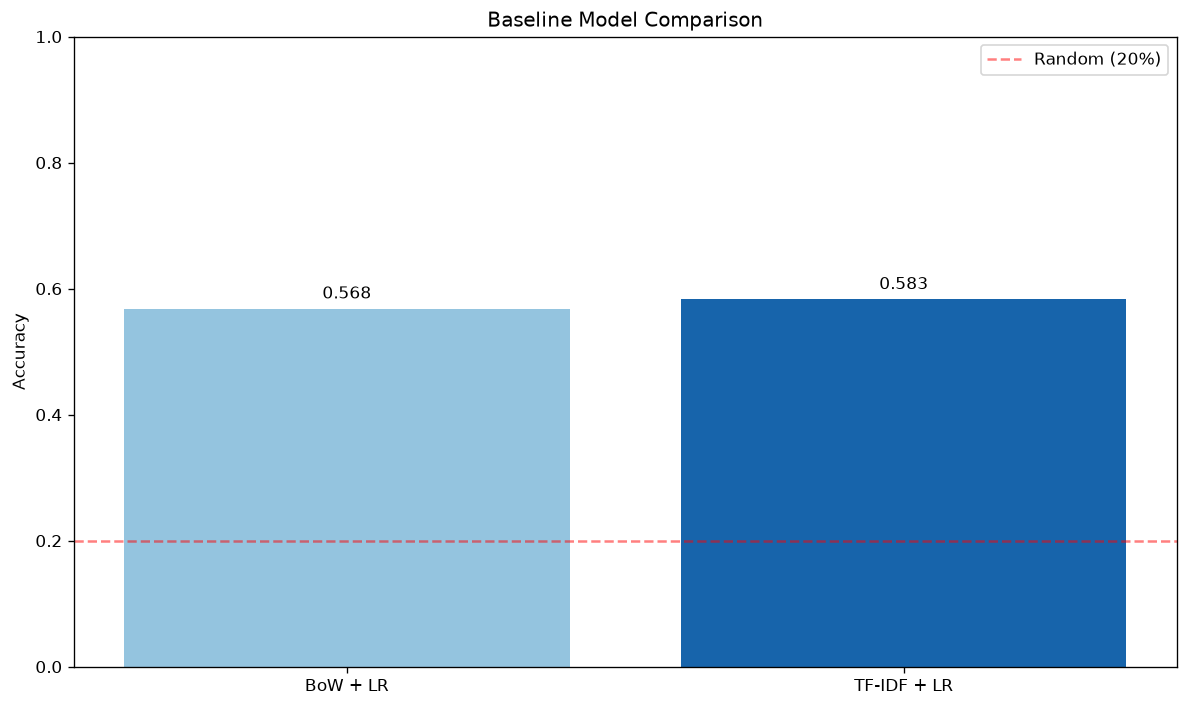
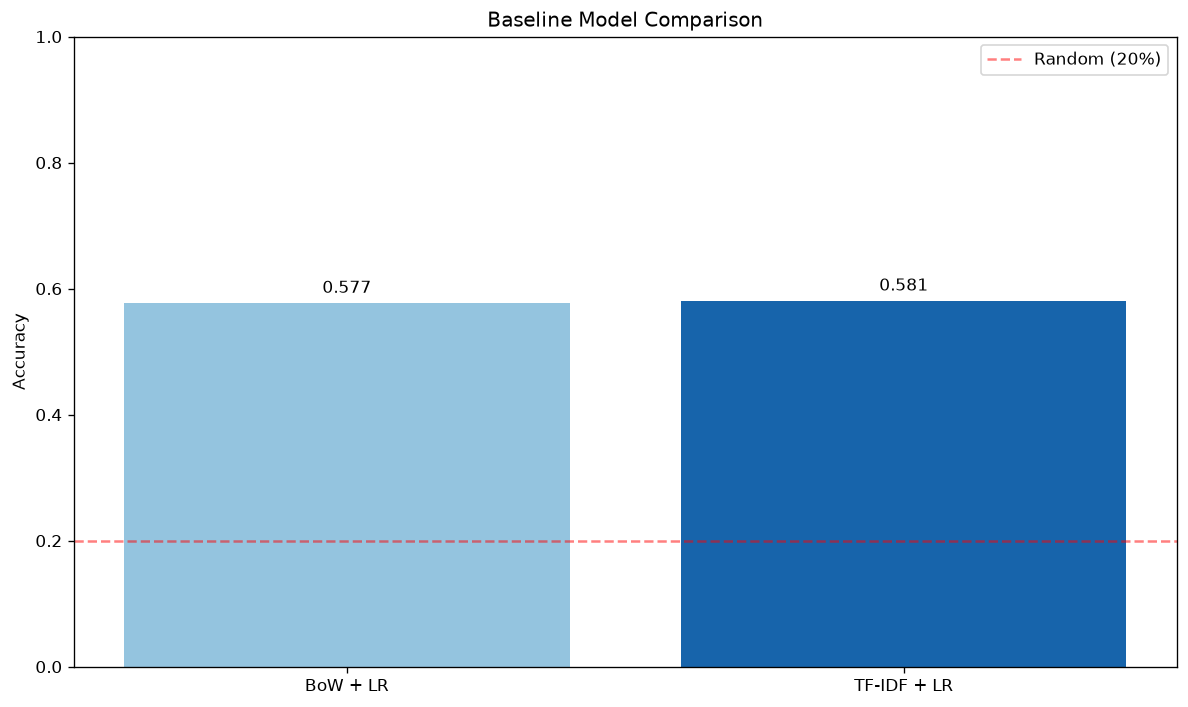
docs(report): compare notebook results with re-implemented experiments

Changed region(s): [[0.0934, 0.3734, 0.4672, 0.4356], [0.7163, 0.3734, 0.8098, 0.4356]]

diff --git a/docs/research-report.md b/docs/research-report.md
@@ -1,135 +1,191 @@
-# Research report: Yelp 5-class review classification, BoW vs TF-IDF + Logistic Regression
+# Research report: Yelp review classification, notebook versus re-implementation
 
-All numbers come from logged runs made on 2026-10-31 at commit `ff66b582532d66a4a6dee29d32b32725573e56f6`. Differences between two logged values are shown as derivations. No external benchmark figures are used. Measurement logs were kept outside the repository (run artifacts, not committed).
+Two kinds of numbers appear below and are always labelled. **Historical** numbers are the recorded outputs of the original notebook (commit `afa2d95`, run in May 2024 on another machine, mostly on GPU). **Re-measured** numbers come from runs made on 2026-10-31 on one CPU machine (Intel Core Ultra 7 258V, 8 cores, 15 GB RAM, WSL2) with this repository's code. Derivations are shown as such. No external benchmark figures are used. Run logs were kept outside the repository and are not committed.
 
 ## Summary
 
-- Task: classify Yelp reviews into 5 star classes (labels 0-4) from `Yelp/yelp_review_full`, using a vectorizer plus Logistic Regression.
-- On the full data (650000 train / 50000 test), TF-IDF reached accuracy 0.5830 and BoW 0.5681 (difference 0.5830 - 0.5681 = 0.0149).
-- Both models place 0.9238 (BoW) and 0.9321 (TF-IDF) of the test reviews within one star of the true label; the errors are mostly between adjacent classes.
-- Accuracy grows with training size for both models (1k to full, see sweep table); TF-IDF was ahead at every size measured.
-- The pipeline does not use `TextPreprocessor`; the actual text handling is done by the sklearn vectorizer (see Setup). Several documentation/configuration mismatches found are listed in [known-issues.md](known-issues.md).
+- The notebook compared classical and deep models on `Yelp/yelp_review_full` (five star classes) and on derived tasks (3 classes, polarity, polarity without neutral), plus DBpedia-14. This repository re-implements all of them behind named experiments.
+- All six classical experiments and the dataset analysis were re-measured at full scale and match the historical values to the printed precision (table below).
+- The 14 deep experiments (char-CNN, BiLSTM + GloVe, DistilBERT, zero-shot DeBERTa) are implemented and smoke-tested only. They were not re-measured at full scale, so their historical values stand alone.
+- Deliberate deviations are listed in [Deviations](#deviations-from-the-notebook); rationale lives in [decisions.md](decisions.md). Notebook inconsistencies are listed under [Notebook inconsistencies](#notebook-inconsistencies).
+- Dependencies changed substantially during the day; see the version table.
 
-## Setup
+## Provenance
 
-**Dataset.** `Yelp/yelp_review_full`, train split 650000 rows, test split 50000 rows. Both splits are balanced: 130000 per class in train, 10000 per class in test. Review length in words (whitespace split): train mean 134.1, median 99, p95 370, max 1052; test mean 134.3, median 99, p95 368, max 1009. No separate validation split: the test split is the only held-out data, and no tuning was done on it.
+- `afa2d95`: the original notebook, written by its author (TensorFlow/Keras, pytorch-ignite, Hugging Face Trainer).
+- A later refactor turned the classical part into the layered package under `src/` (BoW or TF-IDF plus Logistic Regression, five classes only).
+- 2026-10-31 parity work added the notebook's other experiments, one package per commit:
+  - `152145d`: label tasks, experiment registry, `experiments`/`experiment`/`analyze` modes, classical parity.
+  - `1f65b38`: optional `deep` extra (PyTorch), shared training loop, character-level CNN.
+  - `c0c475f`: BiLSTM + GloVe, notebook text cleaning.
+  - `73bb2ac`: DistilBERT fine-tuning, transfer and polarity.
+  - `077e822`: zero-shot DeBERTa experiments.
 
-**Actual preprocessing path.** `TextPreprocessor` is not used by the pipeline. Text goes raw into the sklearn vectorizer, which does:
+## Experiments and how to run them
 
-- lowercase (default sklearn tokenization, default token pattern) and unigrams only;
-- sklearn built-in English `stop_words` (not the NLTK list);
-- `min_df=50`; BoW does not receive `max_df` (sklearn default 1.0, i.e. no upper cut-off); TF-IDF uses `max_df=0.5`.
+`uv run python -m src.main experiments` lists the names; `uv run python -m src.main experiment <name> [sample_size]` runs one and `analyze [sample_size]` prints the dataset statistics. Deep experiments need `uv sync --extra deep` (lazy imports; the error names that command). Names: `lr-bow`, `lr-tfidf`, `lr-bow-3class`, `lr-bow-polarity`, `lr-bow-no-neutral`, `lr-bow-dbpedia`, `cnn-char`, `cnn-char-mixed-case`, `lstm-glove`, `lstm-glove-3class`, `distilbert-finetune`, `distilbert-transfer`, `distilbert-polarity`, `zeroshot-form1-val`, `zeroshot-form2-val`, `zeroshot-form3-val`, `zeroshot-noverb-val`, `zeroshot-test`, `zeroshot-3class`, `zeroshot-binary`.
 
-`expand_contractions` and any punctuation handling in `TextPreprocessor` have no effect on these runs. Vocabulary size is 22027 for both models.
-
-**Classifier.** `LogisticRegression` with lbfgs (sklearn default solver), default `C=1.0`, `max_iter=1000`, `random_state=42`. No hyperparameter tuning was performed.
-
-**Environment.** Python 3.12.15, scikit-learn 1.9.1, numpy 2.5.4, scipy 1.18.1, datasets 5.1.0, nltk 3.10.4, contractions 0.1.73. CPU Intel Core Ultra 7 258V, 8 cores, 15 GB RAM (WSL2).
-
-**Measurement method.**
-
-- Full-data numbers come from an external harness (not committed) that calls `src.main.run_single_model` for `bow` and `tfidf` with `sample_size=None`. It only adds printing of the confusion matrix, label counts, word lengths, top features, within-one-star rate and MAE, and saves the project's own plots (figures below). Metrics themselves come from the project's code. Run once: `/usr/bin/time` total 11:17.33 wall, max RSS 2247724 kB.
-- Sweep numbers (1k, 10k, 100k) come from the CLI: `uv run python -m src.main baseline N`. Those runs print accuracy only.
-- The custom workflow comes from `uv run python -m src.main custom`.
-- A first full CLI `baseline` run was aborted after about 5 minutes (terminated, exit 143); it produced no result and is not reported.
+Zero-shot runs on CPU when no GPU exists (the notebook raised an error without CUDA), and the deep runs are practical on CPU only with small samples.
 
 ## Results
 
-### Full data (650000 train / 50000 test), single run
+Accuracy on the test split unless stated. "Historical" is read from the notebook outputs; "re-measured" is a single full-scale CPU run (650000 train rows unless the task changes the count, seed 42, `max_iter` 100). Status: matched = equal to the historical value at the printed precision.
 
-| Metric | BoW + LR | TF-IDF + LR | TF-IDF - BoW |
+| Experiment | Historical (notebook) | Re-measured today | Status |
 |---|---|---|---|
-| Accuracy | 0.5681 | 0.5830 | 0.0149 |
-| Macro precision | 0.5625 | 0.5792 | 0.0167 |
-| Macro recall | 0.5681 | 0.5830 | 0.0149 |
-| Macro F1 | 0.5646 | 0.5808 | 0.0162 |
-| Within one star | 0.9238 | 0.9321 | 0.0083 |
-| Off by two or more | 0.0762 | 0.0679 | -0.0083 |
-| MAE (stars) | 0.5358 | 0.5108 | -0.0250 |
-| Vocabulary size | 22027 | 22027 | 0 |
-| Wall time (train + predict, s) | 468.0 | 201.5 | -266.5 |
+| `lr-bow` | 0.57704 | 0.5771 | matched |
+| `lr-tfidf` | 0.58068 | 0.5807 | matched |
+| `lr-bow-3class` | 0.75348 | 0.7535 | matched |
+| `lr-bow-polarity` | 0.86034 | 0.8604 (at `c0c475f`) | matched |
+| `lr-bow-no-neutral` | 0.924725 | 0.9247 | matched |
+| `lr-bow-dbpedia` | 0.9765 | 0.9766 | matched |
+| `cnn-char` (lowercase, 70 characters) | 0.6228 | - | not re-measured: smoke-tested only |
+| `cnn-char-mixed-case` (96 characters) | 0.5959 (wrong tokenizer, see below) | - | not re-measured: smoke-tested only |
+| `lstm-glove` | 0.6132 (last-epoch weights; final table says 0.6039) | - | not re-measured: smoke-tested only |
+| `lstm-glove-3class` | 0.79806 | - | not re-measured: smoke-tested only |
+| `distilbert-finetune` | 0.684 (printed to 3 decimals; recall 0.68446) | - | not re-measured: smoke-tested only |
+| `distilbert-transfer` | 0.554 (printed to 3 decimals; recall 0.55398) | - | not re-measured: smoke-tested only |
+| `distilbert-polarity` | 0.91434 (validation 0.91558) | - | not re-measured: smoke-tested only |
+| `zeroshot-form1-val` / `form2-val` / `form3-val` / `noverb-val` (13000 validation rows) | 43.09% / 50.02% / 46.43% / 46.10% (F1) | - | not re-measured: smoke-tested only |
+| `zeroshot-test` (form 2, 50000 rows) | 47.55% | - | not re-measured: smoke-tested only |
+| `zeroshot-3class` | 80.02% | - | not re-measured: smoke-tested only |
+| `zeroshot-binary` (2-star dropped, 40000 rows) | 96.34% | - | not re-measured: smoke-tested only |
 
-Per-class F1 (BoW / TF-IDF): class 0 0.71 / 0.73, class 1 0.49 / 0.51, class 2 0.47 / 0.49, class 3 0.48 / 0.50, class 4 0.67 / 0.68. Per-class recall: class 0 0.74 / 0.75, class 1 0.47 / 0.50, class 2 0.46 / 0.48, class 3 0.47 / 0.49, class 4 0.71 / 0.69.
+Smoke runs of the deep experiments passed on tiny samples; their accuracies say nothing about quality and are not reported. The notebook's own final table lists: LR 0.5770, char-CNN 0.6228, custom LSTM 0.6039, DistilBERT fine-tuned 0.6840, transfer 0.5540, DeBERTa zero-shot 0.4755 (all historical).
 
-### Confusion matrices (rows = true class 0-4, columns = predicted class 0-4)
+### Classical experiments in detail (re-measured)
+
+Macro F1, re-measured against historical where the notebook printed it: `lr-bow` 0.5736 (historical 0.57), `lr-tfidf` 0.5786 (0.58), `lr-bow-3class` 0.7217 (0.72), `lr-bow-polarity` 0.8566, `lr-bow-no-neutral` 0.9247, `lr-bow-dbpedia` 0.9766 (0.98).
+
+Five-class details come from the harness run at `73bb2ac` (same accuracies as the CLI runs; it also computes the extra statistics):
+
+| Metric | BoW + LR | TF-IDF + LR |
+|---|---|---|
+| Accuracy | 0.5771 | 0.5807 |
+| Macro precision / recall / F1 | 0.5716 / 0.5771 / 0.5736 | 0.5770 / 0.5807 / 0.5786 |
+| Per-class F1 (classes 0-4) | 0.72 / 0.51 / 0.48 / 0.48 / 0.68 | 0.72 / 0.52 / 0.49 / 0.49 / 0.68 |
+| Within one star | 0.9266 | 0.9285 |
+| Mean absolute error (stars) | 0.5243 | 0.5193 |
+| Vocabulary size | 22027 | 22027 |
+
+Historical per-class F1 is the same (.72/.51/.48/.48/.68 and .72/.52/.49/.49/.68). The accuracy gap TF-IDF - BoW is 0.5807 - 0.5771 = 0.0036 (re-measured, single split).
+
+Confusion matrices (rows = true class 0-4, columns = predicted class 0-4), re-measured:
 
 BoW:
 
 | true \ pred | 0 | 1 | 2 | 3 | 4 |
 |---|---|---|---|---|---|
-| 0 | 7362 | 1938 | 372 | 132 | 196 |
-| 1 | 2487 | 4726 | 2111 | 449 | 227 |
-| 2 | 521 | 2072 | 4601 | 2181 | 625 |
-| 3 | 146 | 372 | 1915 | 4650 | 2917 |
-| 4 | 171 | 146 | 451 | 2166 | 7066 |
+| 0 | 7427 | 1928 | 332 | 107 | 206 |
+| 1 | 2390 | 4924 | 2036 | 426 | 224 |
+| 2 | 502 | 2080 | 4647 | 2170 | 601 |
+| 3 | 146 | 361 | 1938 | 4698 | 2857 |
+| 4 | 177 | 154 | 435 | 2077 | 7157 |
 
 TF-IDF:
 
 | true \ pred | 0 | 1 | 2 | 3 | 4 |
 |---|---|---|---|---|---|
-| 0 | 7512 | 1941 | 286 | 100 | 161 |
-| 1 | 2356 | 5040 | 2029 | 381 | 194 |
-| 2 | 485 | 2121 | 4753 | 2134 | 507 |
-| 3 | 163 | 354 | 1982 | 4926 | 2575 |
-| 4 | 183 | 150 | 431 | 2318 | 6918 |
+| 0 | 7390 | 2020 | 312 | 106 | 172 |
+| 1 | 2250 | 5061 | 2074 | 410 | 205 |
+| 2 | 517 | 2021 | 4819 | 2107 | 536 |
+| 3 | 179 | 328 | 2017 | 4822 | 2654 |
+| 4 | 222 | 144 | 446 | 2246 | 6942 |
 
 ![BoW confusion matrix](figures/confusion-bow-full.png)
 ![TF-IDF confusion matrix](figures/confusion-tfidf-full.png)
 
-The project's plots are the transpose of the tables above (y axis = predicted, x axis = true), so the first plot row is the first table column.
+The project's plots are the transpose of the tables above (y axis = predicted, x axis = true), so the first plot row is the first table column. The figures were regenerated at `73bb2ac` by the project's own plotting code through an external harness that calls `src.main.run_single_model` for `bow` and `tfidf`.
 
 ![Accuracy comparison](figures/accuracy-comparison-full.png)
 
-### Sample-size sweep (CLI `baseline N`, first N rows of train and of test)
+Observations: errors are mostly between adjacent stars. The largest off-diagonal cells are BoW true 3 predicted 4 (2857), true 1 predicted 0 (2390), true 2 predicted 3 (2170), and TF-IDF true 3 predicted 4 (2654), true 1 predicted 0 (2250), true 4 predicted 3 (2246), ahead of true 2 predicted 3 (2107). The extreme classes score higher F1 than classes 1-3. TF-IDF top features are sentiment words (class 0: worst, horrible, terrible, zero, awful; class 4: delicious, amazing, awesome, excellent, perfect); BoW lists include rare tokens and `n`-prefixed tokens such as `nnever`, `nhowever`, `n3`, which come from literal backslash-n sequences in the text ([known-issues.md](known-issues.md)).
 
-| Sample size | BoW accuracy | TF-IDF accuracy | TF-IDF - BoW | CLI wall time (both models) |
-|---|---|---|---|---|
-| 1000 | 0.3300 | 0.3600 | 0.0300 | 0:09.37 |
-| 10000 | 0.4725 | 0.5050 | 0.0325 | 0:10.01 |
-| 100000 | 0.5286 | 0.5557 | 0.0271 | 3:36.35 |
-| full (650000 / 50000, harness) | 0.5681 | 0.5830 | 0.0149 | 11:17.33 total for both models plus plots |
+### Cost of the classical runs (re-measured, CLI, `/usr/bin/time` wall)
 
-Gain from 100000 to full: BoW 0.5681 - 0.5286 = 0.0395; TF-IDF 0.5830 - 0.5557 = 0.0273.
+`lr-bow` 2:29.63, `lr-tfidf` 2:16.36, `lr-bow-3class` 1:54.72, `lr-bow-polarity` 2:14.34 (1:12.92 at `c0c475f` rerun), `lr-bow-no-neutral` 1:18.69, `lr-bow-dbpedia` 1:08.90, `analyze` 1:06.93. These include dataset loading and plots; the harness training-plus-prediction times were 95.5 s (BoW) and 90.0 s (TF-IDF). Times are indicative.
 
-### Custom workflow (`custom`)
+## Dataset analysis comparison
 
-BoW, first 5000 train and 5000 test rows, vocabulary size 1000 (a hand-composed workflow with its own settings): accuracy 0.4404, macro precision 0.4357, macro recall 0.4389, macro F1 0.4361; wall time 0:07.90. Top 5 features: class 0 worst, terrible, awful, horrible, rude; class 4 perfect, favorite, fantastic, amazing, takes. This is not comparable to the baseline rows (different size and vocabulary cap).
+`analyze` (re-measured) against notebook cells 15-20 (historical):
 
-### Top features (full data, top 10 per class)
+| Quantity | Historical | Re-measured |
+|---|---|---|
+| Train avg characters per document | 732.3254676923077 | 732.33 |
+| Train avg unique words per document | 86.16639384615385 | 86.17 |
+| Train vocabulary | 881476 | 881476 |
+| Train vocabulary without NLTK stopwords | 881327 | 881327 |
+| Test avg characters per document | 733.42376 | 733.42 |
+| Test avg unique words per document | 86.33092 | 86.33 |
+| Test vocabulary | 144068 | 144068 |
+| Test vocabulary without NLTK stopwords | not recorded in the outputs | 143927 |
 
-- TF-IDF class 0: worst, horrible, zero, awful, terrible, waste, poisoning, bland, disgusting, rude. Class 4: amazing, delicious, best, awesome, great, excellent, perfect, fantastic, love, incredible.
-- BoW class 0: poisoning, crooks, disgrace, worst, nworst, riddance, portray, deplorable, methinks, crook. Class 4: yummiest, mazing, surpassed, nhighly, exceeded, rejoice, elated, nfive, awsome, gratuitous.
-- Tokens such as `nworst`, `nmeh`, `nfive`, `nhighly` appear in the lists (see Limitations).
+The harness also gives the review length in words (whitespace split): train mean 134.1, median 99, p95 370, max 1052; test mean 134.3, median 99, p95 368, max 1009. Both splits are balanced (130000 and 10000 per class).
 
-## Analysis
+## Deviations from the notebook
 
-- TF-IDF beat BoW on every full-data metric except class-4 recall (0.69 vs 0.71) and was faster in this run (201.5 s vs 468.0 s). The accuracy gap is 0.0149 on a single split; no variance estimate exists, so the size of the gap is not established beyond this run.
-- TF-IDF led at every sample size in the sweep (gaps 0.0300, 0.0325, 0.0271, 0.0149 from 1k to full), and the gap was smaller at full data than at 1k-100k.
-- Accuracy still rose from 100000 to full data (BoW +0.0395, TF-IDF +0.0273), so no plateau is shown at the sizes tried.
-- The extreme classes are easier: F1 for classes 0 and 4 (0.71, 0.67 BoW; 0.73, 0.68 TF-IDF) exceeds the middle classes 1-3 (0.47-0.49 BoW; 0.49-0.51 TF-IDF).
-- Errors are mostly adjacent. For BoW, 0.9238 of reviews are within one star; the largest off-diagonal cells are neighbours (true 3 predicted 4: 2917; true 1 predicted 0: 2487; true 2 predicted 3: 2181). TF-IDF shows the same pattern (true 3 predicted 4: 2575; true 1 predicted 0: 2356).
-- BoW and TF-IDF have the same vocabulary size (22027) although only TF-IDF applies `max_df=0.5`; the logs do not show which terms each filter removed.
-- TF-IDF top features are sentiment words, whereas BoW's top features include rare tokens (`crooks`, `riddance`, `nworst`); with unscaled counts the largest coefficients attach to rare terms. This is an observation from the feature lists, not a tested cause.
+Rationale is in [decisions.md](decisions.md); this is the list.
+
+- **Frameworks.** TensorFlow/Keras (char-CNN, LSTM), pytorch-ignite (5-class DistilBERT) and the Hugging Face `Trainer` (polarity) are replaced by one PyTorch training loop with the same architectures and hyperparameters. Parameter counts match for the CNN (11,345,775 / 11,396,709); the PyTorch LSTM has an extra bias vector (1,570,309 trainable against Keras's 1,568,261, +2048).
+- **Notebook bugs fixed.** The mixed-case CNN now encodes its test set with its own alphabet; the LSTM restores the best `val_loss` weights instead of evaluating the last epoch; the transfer-learning frozen/trainable labels are printed correctly; no hard-coded hub token and no `push_to_hub`; the GPU-only error is replaced by CPU fallback.
+- **Split and shuffle semantics.** The notebook's unseeded `np.random.shuffle` and `validation_split` become a seeded shuffle with the last 20% as validation; the 5-class DistilBERT 0.75/0.25 split uses a seeded NumPy permutation instead of `torch.random_split`, so the exact samples differ.
+- **Polarity batch.** The notebook's polarity run recorded `global_step` 8125 (two devices, effective batch 64); the port uses batch 32 on one device.
+- **`max_iter`.** Restored to sklearn's 100, the notebook's value. A first measurement used 1000 (the refactor's setting, not a recorded decision). Sensitivity, same data and code otherwise (the 1000 values come from the morning run recorded at commit `ff66b58` (logged as `01635a3` before the author-identity rewrite, same tree), the 100 values from this run at `73bb2ac`): BoW 0.5681 at 1000 against 0.5771 at 100; TF-IDF 0.5830 at 1000 against 0.5807 at 100. Differences: BoW -0.0090, TF-IDF +0.0023 going from 100 to 1000 (derived).
+- **Text cleaning.** The LSTM path uses the notebook's `remove_noise` order, so apostrophe contractions are not expanded; polarity uses the notebook's punctuation regex, which leaves the backslash (polarity accuracy 0.8574 in the run at `152145d`, which deletes every `string.punctuation` character, and 0.8604 in the run at `c0c475f`, which uses the notebook regex; between those commits the change on the polarity LR path was the punctuation regex in `src/preprocessing/feature_engineer.py`). The vocabulary pair 22839 (notebook regex) against 22924 (all punctuation deleted) comes from a lead ad-hoc check at `152145d` on the full train split (`CountVectorizer(min_df=50, stop_words='english')`), not a committed log; its output is recorded in the run's `runs-logs/lead-check-polarity-vocab.txt`.
+- **BoW `max_df`.** None, as in the notebook; the BoW/TF-IDF comparison therefore also differs in `max_df` (1.0 vs 0.5).
+
+## Notebook inconsistencies
+
+- The final table lists custom LSTM 0.6039, but the outputs show a test accuracy of 0.6132 (bidirectional LSTM, last-epoch weights, not the best checkpoint). The value 0.6039 appears in the outputs only as the Keras progress-bar line printed during that test evaluation.
+- The mixed-case CNN result 0.5959 was evaluated with the lowercase tokenizer, so it is confounded.
+- DistilBERT values are printed rounded to three decimals (0.684, 0.554) apart from recall and precision.
+- The CNN heatmaps plot the transposed matrix with swapped axis labels; the notebook's polarity cell contains a hard-coded hub token and `push_to_hub=True` (not replicated).
+
+## Dependency and package version changes today
+
+Versions come from `uv.lock` at each commit (`-` = not in the lock).
+
+| Package | `7cd04df` | `3c8b9e4` | `6c98a44` | `7c6f6f1` | `73bb2ac` |
+|---|---|---|---|---|---|
+| scikit-learn | 1.9.1 | 1.9.1 | 1.9.1 | 1.9.1 | 1.9.1 |
+| numpy | 2.5.3 | 2.5.3 | 2.5.3 | 2.5.4 | 2.5.4 |
+| scipy | 1.18.1 | 1.18.1 | 1.18.1 | 1.18.1 | 1.18.1 |
+| datasets | 5.0.1 | 5.0.1 | 5.0.1 | 5.1.0 | 5.1.0 |
+| huggingface-hub | 1.33.0 | 1.33.0 | 1.33.0 | 2.4.0 | 2.4.0 |
+| nltk | 3.10.3 | 3.10.3 | 3.10.3 | 3.10.4 | 3.10.4 |
+| contractions | 0.1.73 | 0.1.73 | 0.1.73 | 0.1.73 | 0.1.73 |
+| matplotlib | 3.11.2 | 3.11.2 | 3.11.2 | 3.11.2 | 3.11.2 |
+| seaborn | 0.13.2 | 0.13.2 | 0.13.2 | 0.13.2 | 0.13.2 |
+| pandas | 3.0.6 | 3.0.6 | 3.0.6 | 3.1.0 | 3.1.0 |
+| pytest | 9.1.1 | 9.1.1 | 9.2.0 | 9.2.0 | 9.2.0 |
+| pytest-cov | 7.1.0 | 7.1.0 | 7.1.0 | 7.1.0 | 7.1.0 |
+| torch | 2.14.1 | - | - | - | 2.15.0 |
+| transformers | 5.18.0 | - | - | - | 5.22.1 |
+| tokenizers | 0.23.2 | - | - | - | 0.23.3 |
+| gensim | 4.4.0 | - | - | - | 4.4.0 |
+| tensorflow, tf-keras | 2.21.0 | - | - | - | - |
+| accelerate | 1.15.0 | - | - | - | - |
+
+Sequence: `3c8b9e4` removed the deep libraries (`tensorflow`, `tf-keras`, `transformers`, `accelerate`, and `gensim` as unused; torch left the lock too); `7c6f6f1` re-added every dependency with uv-chosen lower bounds (datasets 5.1, huggingface-hub 2.4); `1f65b38`, `c0c475f` and `73bb2ac` re-added `torch`, `gensim` and `transformers` in the optional `deep` extra. TensorFlow, Keras and `accelerate` stay out: the port uses PyTorch. `sentencepiece`, `protobuf` and `tiktoken` were not needed for the DeBERTa tokenizer in the smoke run.
 
 ## Limitations
 
-- One seed (42), one split, no confidence intervals, no repeated runs; the 0.0149 gap is a single measurement.
-- No hyperparameter tuning (`C`, `max_iter`, `min_df`, `max_df`, n-grams, solver all at the values above).
-- The sweep takes the first N rows of both train and test (`DataLoader` does not shuffle). The first 1000 test rows are not balanced (counts per class 0-4: 189, 204, 245, 215, 147), so the 1k result is on a skewed test subset. Sweep wall times were not measured in isolation (runs overlapped other activity, per the log start/end timestamps, local time: the aborted full CLI run ran 12:55:57-13:01:18; sweeps ended 12:56:32, 12:56:42, 13:00:26; custom 13:00:34), so they are indicative only; full-data wall times come from a separate run.
-- `configure_environment` suppresses all Python warnings (`category=Warning`), so lbfgs convergence warnings, if any, were not visible and convergence at `max_iter=1000` is not verified.
-- Literal backslash-n sequences occur in the dataset text: 25130 of 50000 test rows contain them. The default tokenizer turns `\nworst` into `nworst`, as shown in the top features; no cleaning is applied.
-- The full-data numbers come from an external harness rather than the committed CLI (the CLI `baseline` prints accuracy only and its full run was aborted).
-- Metrics are reported on the test split only; BoW max_df is not set, so the BoW/TF-IDF comparison also differs in `max_df` (1.0 vs 0.5) in addition to term weighting.
+- One seed (42), one split, no confidence intervals or repeated runs; the 0.0036 BoW/TF-IDF gap is a single measurement.
+- Historical numbers come from another machine, library versions and (for deep models) GPU runs; the notebook's own pinned `sklearn==1.0.2` differs from the 1.9.1 used here, yet the classical results match.
+- Deep models are not re-measured, so nothing here shows that the PyTorch ports reproduce the historical accuracies; the deviations above (framework, split samples, best-weight restore, batch) make exact equality unlikely.
+- `configure_environment` suppresses all warnings, so lbfgs convergence warnings, if any, are not visible ([known-issues.md](known-issues.md)).
+- Literal backslash-n sequences in the text yield tokens such as `nworst`; no cleaning is applied to the classical path.
+- The figures and five-class details come from an external harness, not a committed CLI mode.
+- Wall times are indicative only.
 
 ## Reproduction
 
 ```
-git checkout ff66b582532d66a4a6dee29d32b32725573e56f6
-uv sync
-MPLBACKEND=Agg uv run python -m src.main baseline 1000
-MPLBACKEND=Agg uv run python -m src.main baseline 10000
-MPLBACKEND=Agg uv run python -m src.main baseline 100000
-MPLBACKEND=Agg uv run python -m src.main custom
+uv sync                      # add --extra deep for the deep experiments
+uv run python -m src.main experiments
+uv run python -m src.main analyze
+uv run python -m src.main experiment lr-bow
+MPLBACKEND=Agg uv run python -m src.main experiment lr-tfidf
 ```
 
-The full-data figures need `run_single_model(model_type, sample_size=None)` for `bow` and `tfidf`. Calling it directly (for example from a small script that prints `ctx["metrics"]`) reproduces the table; the harness additionally printed the extra statistics above. The first run downloads the dataset and the NLTK stopwords corpus and needs network access.
+The first run downloads the dataset and the NLTK stopwords and needs network access; the LSTM also downloads GloVe, DistilBERT and DeBERTa their checkpoints.

diff --git a/docs/decisions.md b/docs/decisions.md
@@ -12,9 +12,9 @@ Dated 2026-10-31. Each entry: decision and reason. Commits by short hash.
 - `matplotlib` and `numpy` declared because `src/` imports them directly; `pytest` and `pytest-cov` moved to the `dev` group; unused `slow` marker dropped. (6c98a44)
 - All dependencies re-added one by one so uv chose the lower bounds. Observed 2026-10-31 (HF Hub API and a real run): this upgraded to datasets 5.1 and huggingface-hub 2.4 (httpx2 stack; provenance checked). (7c6f6f1)
 - Dataset id changed to `Yelp/yelp_review_full`; same revision (c1f9ee93). Observed 2026-10-31 (HF Hub API and a real run): datasets 5 / huggingface-hub 2 rejected the legacy bare id. (7f6f07c)
-- Notebook-parity work (2026-10-31): `ModelConfig.max_iter` restored to sklearn's 100, the original notebook's value (1000 came from the refactor commit 7f15775, not a recorded decision); still configurable. `ModelConfig.num_classes` removed: the class count comes from the label task.
+- Notebook-parity work (2026-10-31): `ModelConfig.max_iter` restored to sklearn's 100, the original notebook's value (1000 came from the refactor commit 7f15775, not a recorded decision); still configurable; the measured effect of 1000 against 100 is in [research-report.md](research-report.md#deviations-from-the-notebook). `ModelConfig.num_classes` removed: the class count comes from the label task.
 - Label tasks (`stars5`, `stars3`, `polarity`, `polarity_no_neutral`, `dbpedia14`) live in the data layer (`src/data/tasks.py`) and are applied by `DataLoader` before first-N sampling, so `sample_size` counts rows that survive the task.
-- Named experiment registry (`EXPERIMENTS` in `src/config.py`) exposed as CLI modes `experiments`, `experiment <name>` and `analyze`; deep-model experiments will use `ModelFactory.register_lazy` so torch/transformers are never imported at CLI start-up. `class_weight='balanced'` equals the notebook's inverse-frequency weights.
+- Named experiment registry (`EXPERIMENTS` in `src/config.py`) exposed as CLI modes `experiments`, `experiment <name>` and `analyze`; deep-model experiments use `ModelFactory.register_lazy` so torch/transformers are never imported at CLI start-up. `class_weight='balanced'` equals the notebook's inverse-frequency weights.
 - BoW deliberately gets no `max_df` (the notebook's `CountVectorizer(min_df=50, stop_words='english')` has none); the known issue was closed as intended. The analyzer deletes punctuation instead of replacing it with a space, as notebook cell 17 does.
 - Author and committer of the 11 commits made with the machine-local address `icela@DAT38251.replynet.prv` rewritten to the GitHub no-reply identity, so GitHub links them to the account; dates and trees unchanged, hashes in this log and in docs/research-report.md updated to the rewritten commits.
 - TensorFlow/Keras to PyTorch port (wp-002): the notebook's char-CNN is reimplemented in plain PyTorch with the same architecture (11,345,775 / 11,396,709 parameters), Adam 1e-3, batch 128, early stopping on val_accuracy (patience 4, best weights restored), under the optional `deep` extra (`uv add --optional deep torch`), imported lazily with an error naming `uv sync --extra deep`. Validation is the last 20% of a seeded shuffle of the training set, as Keras `validation_split` after the notebook's unseeded `np.random.shuffle`.

diff --git a/AGENTS.md b/AGENTS.md
@@ -45,7 +45,7 @@ Docs, code and commit messages in English; reply to the user in the language the
 - `src/AGENTS.md`: module responsibilities, dependency direction, context contract, how to add a model.
 - `tests/AGENTS.md`: test conventions, markers, fixtures, mocking rules.
 - `docs/decisions.md`: dated log of decisions and their reasons.
-- `docs/research-report.md`: measured BoW vs TF-IDF results, method and limitations.
+- `docs/research-report.md`: notebook (historical) vs re-measured results, deviations, dependency changes and limitations.
 - `docs/known-issues.md`: current known oddities, not yet fixed.
 
 ## Do not read whole

diff --git a/docs/known-issues.md b/docs/known-issues.md
@@ -4,7 +4,7 @@ Verified against the code at the time of writing. None of these is fixed yet; re
 
 ## Dependencies (`pyproject.toml`)
 
-- `torch` and `tensorflow` are optional guarded imports in `src/utils/reproducibility.py` `configure_environment`; neither is declared, and seeding is skipped when they are absent.
+- `torch` is declared only in the optional `deep` extra and `tensorflow` is not declared at all; both are guarded imports in `src/utils/reproducibility.py` `configure_environment`, and seeding is skipped for whichever is absent.
 
 ## Behavior
 

diff --git a/README.md b/README.md
@@ -17,6 +17,7 @@ The `baseline` argument compares both models; the number is an optional sample s
 - [AGENTS.md](AGENTS.md): commands, layout, and project conventions (also read by coding agents).
 - [src/AGENTS.md](src/AGENTS.md): architecture and how to add a model.
 - [tests/AGENTS.md](tests/AGENTS.md): testing conventions.
+- [docs/research-report.md](docs/research-report.md): notebook results versus re-measured results.
 - [docs/known-issues.md](docs/known-issues.md): current known issues.
 
 Released under the license in [LICENSE](LICENSE).
